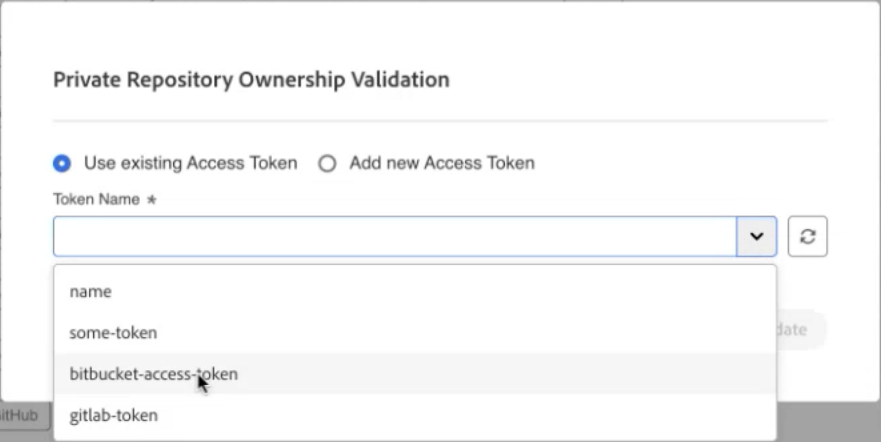
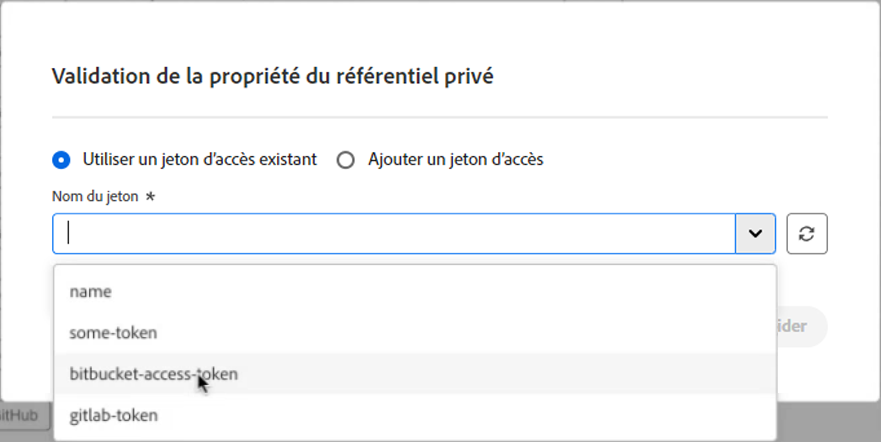
Updated by task 'AUTO_HANDOFF_1728480949381'  Changes for core/source commit https://git.corp.adobe.com/AdobeDocs/experience-manager-cloud-manager.en/commit/593ab468fb09900d061a4d820b8a1a33e2047237

Changed region(s): [[0.0613, 0.3235, 0.9501, 0.5882], [0.0613, 0.1471, 0.5823, 0.2059], [0.8581, 0.7059, 0.9194, 0.7647]]

diff --git a/help/managing-code/external-repositories.md b/help/managing-code/external-repositories.md
@@ -1,17 +1,17 @@
 ---
-title: Ajouter des référentiels externes dans Cloud Manager (Adopteur anticipé)
-description: Découvrez comment ajouter un référentiel externe dans Cloud Manager. Cloud Manager prend en charge l’intégration avec les référentiels GitHub, GitLab et Bitbucket.
+title: Ajout de référentiels externes dans Cloud Manager (adoption précoce)
+description: Découvrez comment ajouter un référentiel externe dans Cloud Manager. Cloud Manager prend en charge l’intégration avec les référentiels GitHub, GitLab et Bitbucket.
 source-git-commit: 054c214be3c8c6e8a8bd4691b70ae2098263ef5b
-workflow-type: tm+mt
+workflow-type: ht
 source-wordcount: '740'
-ht-degree: 6%
+ht-degree: 100%
 
 ---
 
 
-# Ajout de référentiels externes dans Cloud Manager {#external-repositories}
+# Ajout de référentiels externes dans Cloud Manager {#external-repositories}
 
-Découvrez comment ajouter un référentiel externe dans Cloud Manager. Cloud Manager prend en charge l’intégration avec les référentiels GitHub, GitLab et Bitbucket.
+Découvrez comment ajouter un référentiel externe dans Cloud Manager. Cloud Manager prend en charge l’intégration avec les référentiels GitHub, GitLab et Bitbucket.
 
 >[!NOTE]
 >
@@ -19,7 +19,7 @@ Découvrez comment ajouter un référentiel externe dans Cloud Manager. Cloud Ma
 
 ## Configuration d’un référentiel externe
 
-La configuration d’un référentiel externe dans Cloud Manager se compose de trois étapes :
+La configuration d’un référentiel externe dans Cloud Manager se compose de trois étapes :
 
 1. [Ajoutez un référentiel externe](#add-external-repo) à un programme sélectionné.
 1. Fournissez un jeton d’accès au référentiel externe.
@@ -33,60 +33,60 @@ La configuration d’un référentiel externe dans Cloud Manager se compose de t
 1. Dans la console **[Mes programmes](/help/getting-started/navigation.md#my-programs-console), sélectionnez le programme auquel vous souhaitez lier un référentiel externe.
 
 
-1. Dans le menu latéral, sous **Services**, sélectionnez ![Icône Dossier](https://spectrum.adobe.com/static/icons/workflow_18/Smock_Folder_18_N.svg) **Référentiels**.
+1. Dans le menu latéral, sous **Services**, sélectionnez ![icône Dossier](https://spectrum.adobe.com/static/icons/workflow_18/Smock_Folder_18_N.svg) **Référentiels**.
 
    ![Page Référentiels](/help/managing-code/assets/repositories-tab.png)
 
-1. Près du coin supérieur droit de la page **Référentiels**, cliquez sur **Ajouter un référentiel**.
+1. Dans le coin supérieur droit de la page **Référentiels**, cliquez sur **Ajouter un référentiel**.
 
 1. Dans la boîte de dialogue **Ajouter un référentiel**, sélectionnez **Référentiel privé** pour lier un référentiel Git externe à votre programme.
 
-   ![Ajout de votre propre référentiel.](/help/managing-code/assets/repositories-private-repo-type.png)
+   ![Ajout de votre propre référentiel](/help/managing-code/assets/repositories-private-repo-type.png)
 
-1. Dans chaque champ respectif, fournissez les détails suivants sur votre référentiel :
+1. Dans chaque champ respectif, fournissez les détails suivants sur votre référentiel :
 
    | Champ | Description |
    | --- | --- |
-   | **Nom du référentiel** | Requis. Nom expressif de votre nouveau référentiel. |
-   | **URL du référentiel** | Requis. URL du référentiel.<br><br> Si vous utilisez un référentiel hébergé par GitHub, le chemin doit se terminer par `.git`.<br>Par exemple, *`https://github.com/org-name/repo-name.git`* (le chemin de l’URL est fourni à titre d’illustration uniquement).<br><br>Si vous utilisez un référentiel externe, il doit utiliser le format de chemin d’URL suivant :<br>`https://git-vendor-name.com/org-name/repo-name.git`<br> ou<br>`https://self-hosted-domain/org-name/repo-name.git`<br>et correspondre à votre fournisseur Git. |
-   | **Sélectionner le type de référentiel** | Requis. Sélectionnez le type de référentiel que vous utilisez : **GitHub**, **GitLab** ou **BitBucket**. Si le chemin d’URL du référentiel ci-dessus inclut le nom du fournisseur Git, tel que GitLab ou Bitbucket, le type de référentiel est déjà présélectionné. |
+   | **Nom du référentiel** | Obligatoire. Nom expressif pour votre nouveau référentiel. |
+   | **URL du référentiel** | Obligatoire. URL du référentiel.<br><br> Si vous utilisez un référentiel hébergé par GitHub, le chemin d’accès doit se terminer par `.git`.<br>Par exemple, *`https://github.com/org-name/repo-name.git`* (le chemin d’accès de l’URL est fourni à titre d’illustration uniquement).<br><br>Si vous utilisez un référentiel externe, il doit utiliser le format de chemin d’accès d’URL suivant :<br>`https://git-vendor-name.com/org-name/repo-name.git`<br> ou <br>`https://self-hosted-domain/org-name/repo-name.git`<br> et correspondre à votre fournisseur Git. |
+   | **Sélection du type de référentiel** | Obligatoire. Sélectionnez le type de référentiel que vous utilisez : **GitHub**, **GitLab** ou **BitBucket**. Si le chemin d’accès de l’URL du référentiel ci-dessus inclut le nom du fournisseur Git, tel que GitLab ou Bitbucket, le type de référentiel est déjà présélectionné. |
    | **Description** | Facultatif. Description détaillée du référentiel. |
 
 1. Sélectionnez **Enregistrer** pour ajouter le référentiel.
 
 1. Dans la boîte de dialogue **Validation de la propriété du référentiel privé**, fournissez un jeton d’accès pour valider la propriété du référentiel externe afin que vous puissiez y accéder.
 
-   ![Sélectionner un jeton d’accès existant pour un référentiel](/help/managing-code/assets/repositories-exisiting-access-token.png)
+   ![Sélection d’un jeton d’accès existant pour un référentiel](/help/managing-code/assets/repositories-exisiting-access-token.png)
    *Sélection d’un jeton d’accès existant pour un référentiel BitBucket.*
 
    | Type de jeton | Description |
    | --- | --- |
-   | **Utiliser un jeton d’accès existant** | Si vous avez déjà fourni un jeton d’accès au référentiel pour votre organisation et que vous avez accès à plusieurs référentiels, vous pouvez sélectionner un jeton existant. Utilisez la liste déroulante **Nom du jeton** pour choisir le jeton à appliquer au référentiel. Sinon, ajoutez un nouveau jeton d’accès. |
-   | **Ajouter un nouveau jeton d’accès** | **Type de référentiel : GitHub**<br> ・ Dans le champ de texte **Nom du jeton**, saisissez un nom pour le jeton d’accès que vous créez.<br> ・ Créez un jeton d’accès personnel en suivant les instructions de la [documentation GitHub](https://docs.github.com/en/enterprise-server@3.14/authentication/keeping-your-account-and-data-secure/managing-your-personal-access-tokens).<br> ・ Autorisations requises : <br>  ・ `Read access to metadata`.<br>  ・ `Read and write access to code and pull requests`.<br> ・ Dans le champ **Access Token** , collez le jeton que vous venez de créer. |
-   |  | **Type de référentiel : GitLab**<br> ・ Dans le champ de texte **Nom du jeton**, saisissez un nom pour le jeton d’accès que vous créez.<br> ・ Créez un jeton d’accès personnel en suivant les instructions de la [documentation GitLab](https://docs.gitlab.com/ee/user/profile/personal_access_tokens.html).<br> ・ Autorisations requises : <br>  ・ `api`<br>  ・ `read_api`<br>  ・ `read_repository`<br>  ・ `write_repository`<br> ・ Dans le champ **Access Token**, collez le jeton que vous venez de créer. |
-   |  | **Type de référentiel : ・ Bitbucket**<br> Dans le champ de texte **Nom du jeton**, saisissez un nom pour le jeton d’accès que vous créez.<br> ・ Créez un jeton d’accès au référentiel à l’aide de la [documentation Bitbucket](https://support.atlassian.com/bitbucket-cloud/docs/create-a-repository-access-token/).<br> ・ Autorisations requises : <br>  ・ `Read and write access to code and pull requests`. |
+   | **Utilisation d’un jeton d’accès existant** | Si vous avez déjà fourni un jeton d’accès au référentiel pour votre organisation et que vous avez accès à plusieurs référentiels, vous pouvez sélectionner un jeton existant. Utilisez la liste déroulante **Nom du jeton** pour choisir le jeton que vous souhaitez appliquer au référentiel. Sinon, ajoutez un nouveau jeton d’accès. |
+   | **Ajout d’un nouveau jeton d’accès** | **Type de référentiel : GitHub**<br>• Dans le champ de texte **Nom du jeton**, saisissez un nom pour le jeton d’accès que vous créez.<br>• Créez un jeton d’accès personnel en suivant les instructions de la [documentation GitHub](https://docs.github.com/fr/enterprise-server@3.14/authentication/keeping-your-account-and-data-secure/managing-your-personal-access-tokens).<br>• Autorisations requises : <br> • `Read access to metadata`.<br> • `Read and write access to code and pull requests`.<br>• Dans le champ **Jeton d’accès**, collez le jeton que vous venez de créer. |
+   |  | **Type de référentiel : GitLab**<br>• Dans le champ de texte **Nom du jeton**, saisissez un nom pour le jeton d’accès que vous créez.<br>• Créez un jeton d’accès personnel en suivant les instructions de la [documentation GitLab](https://docs.gitlab.com/ee/user/profile/personal_access_tokens.html).<br>• Autorisations requises :<br> • `api`<br> • `read_api`<br> • `read_repository`<br> • `write_repository`<br>• Dans le champ **Jeton d’accès**, collez le jeton que vous venez de créer. |
+   |  | **Type de référentiel : Bitbucket**<br>• Dans le champ de texte **Nom du jeton**, saisissez un nom pour le jeton d’accès que vous créez.<br>• Créez un jeton d’accès au référentiel à l’aide de la [documentation Bitbucket](https://support.atlassian.com/bitbucket-cloud/docs/create-a-repository-access-token/).<br>• Autorisations requises :<br> • `Read and write access to code and pull requests`. |
 
    >[!NOTE]
    >
-   >La fonctionnalité **Ajouter un nouveau jeton d’accès** est actuellement en phase Adopteurs anticipés. D&#39;autres fonctionnalités sont en cours de planification. Par conséquent, les autorisations requises pour les jetons d’accès peuvent changer. En outre, l’interface utilisateur de gestion des jetons peut être mise à jour, notamment des fonctionnalités telles que les dates d’expiration des jetons. De plus, des vérifications automatisées pour s’assurer que les jetons liés à des référentiels restent valides.
+   >La fonctionnalité **Ajouter un nouveau jeton d’accès** est actuellement en phase d’adoption précoce. Des fonctionnalités supplémentaires sont en cours de planification. Par conséquent, les autorisations requises pour les jetons d’accès peuvent changer. De plus, l’interface d’utilisation pour la gestion des jetons peut être mise à jour avec des fonctionnalités telles que la gestion des dates d’expiration des jetons. Ainsi que des vérifications automatisées pour garantir que les jetons associés aux référentiels restent valides.
 
 1. Cliquez sur **Valider**.
 
-Après la validation, le référentiel externe est prêt à utiliser et à se lier à un pipeline.
+Après validation, le référentiel externe est prêt à l’emploi et peut être connecté à un pipeline.
 
-## Lier un référentiel externe validé à un pipeline {#validate-ext-repo}
+## Liaison d’un référentiel externe validé à un pipeline {#validate-ext-repo}
 
-1. Ajouter ou modifier un pipeline :
+1. Ajoutez ou modifiez un pipeline :
    * [Ajout d’un pipeline de production](/help/using/production-pipelines.md)
    * [Ajout de pipelines hors production](/help/using/non-production-pipelines.md)
    * [Modification d’un pipeline](/help/using/managing-pipelines.md#editing-pipelines)
 
    ![Référentiel de code source du pipeline et branche Git](/help/managing-code/assets/pipeline-repo-gitbranch.png)
-   *Boîte de dialogue Ajouter un pipeline hors production avec référentiel sélectionné et branche Git,*
+   *Boîte de dialogue Ajout d’un pipeline hors production avec référentiel sélectionné et branche Git*
 
-1. Lors de l’ajout ou de la modification d’un pipeline, pour spécifier l’emplacement **Source Code** pour votre nouveau pipeline ou existant, sélectionnez le référentiel externe que vous souhaitez utiliser dans la liste déroulante **Repository**.
+1. Pour spécifier l’emplacement du **code source** lors de l’ajout ou de la modification d’un pipeline, sélectionnez le référentiel externe de votre choix dans la liste déroulante **Référentiel**.
 
-1. Dans la liste déroulante **Branche Git** , sélectionnez la branche comme source du pipeline.
+1. Dans la liste déroulante **Branche Git**, sélectionnez la branche comme source du pipeline.
 
 1. Cliquez sur **Enregistrer**.
 
@@ -99,4 +99,4 @@ Après la validation, le référentiel externe est prêt à utiliser et à se li
 ## Limites
 
 * Les référentiels externes ne peuvent pas être liés aux pipelines de configuration.
-* Les pipelines qui utilisent des référentiels externes (à l’exception des référentiels hébergés par GitHub) et l’option **Déclencheur de déploiement** [!UICONTROL **Lors des modifications Git**], les déclencheurs ne sont pas démarrés automatiquement. Ils doivent être démarrés manuellement.
+* Lorsque des pipelines utilisent des référentiels externes (hors GitHub) et que l’option **Déclencheur de déploiement** est activée avec [!UICONTROL **Lors des modifications Git**], les déclencheurs ne s’exécutent pas automatiquement. Ils doivent être démarrés manuellement.

diff --git a/help/release-notes/current.md b/help/release-notes/current.md
@@ -3,9 +3,9 @@ title: Notes de mise à jour de la version 2024.10.0 de Cloud Manager
 description: Voici les notes de mise à jour de la version 2024.10.0 de Cloud Manager.
 feature: Release Information
 source-git-commit: 74e8f7c0f3896e0e33a02b62c003db322c0d50d8
-workflow-type: tm+mt
+workflow-type: ht
 source-wordcount: '369'
-ht-degree: 27%
+ht-degree: 100%
 
 ---
 
@@ -23,44 +23,44 @@ Cette page présente les notes de mise à jour de la version 2024.10.0 de [!UIC
 
 <!-- SAVE FOR FUTURE POSSIBLE USE No notable bugs or features for the September release of Cloud Manager. -->
 
-La date de publication de [!UICONTROL Cloud Manager] 2024.10.0 est le 3 octobre 2024.
+La date de publication de la mise à jour 2024.10.0 de [!UICONTROL Cloud Manager] est le 3 octobre 2024.
 
-La prochaine version est prévue pour le vendredi 14 novembre 2024.
+La prochaine version est prévue pour le 14 novembre 2024.
 
 
 
 ## Nouveautés {#what-is-new}
 
-* <!-- BOTH CS & AMS --> La version AEM Archetype utilisée dans Cloud Manager est désormais mise à jour vers la version 26. Voir [https://github.com/adobe/aem-project-archetype/releases](https://github.com/adobe/aem-project-archetype/releases)
+* <!-- BOTH CS & AMS --> La version d’archétype AEM utilisée dans Cloud Manager est désormais mise à jour vers la version 26. Voir [https://github.com/adobe/aem-project-archetype/releases](https://github.com/adobe/aem-project-archetype/releases)
 <!-- (CMGR-59817) -->
 
 
 
 ## Programme d’adoption précoce {#early-adoption}
 
-Faites partie du programme Cloud Manager d’adoption anticipée et avez la possibilité de tester les fonctionnalités à venir.
+Prenez part à notre programme d’adoption précoce de Cloud Manager afin de pouvoir tester certaines fonctionnalités à venir.
 
 ### Apportez votre propre Git - avec prise en charge de GitLab et Bitbucket {#gitlab-bitbucket}
 
 <!-- BOTH CS & AMS -->
 
-La fonctionnalité **Bring Your Own Git** a été étendue pour inclure la prise en charge de référentiels externes tels que GitLab et Bitbucket. Cette nouvelle prise en charge s’ajoute à la prise en charge déjà existante des référentiels GitHub privés et d’entreprise. Lorsque vous ajoutez ces nouveaux repos, vous pouvez également les lier directement à vos pipelines. Vous pouvez héberger ces référentiels sur des plateformes cloud publiques ou dans votre cloud ou infrastructure privée. Cette intégration élimine également la nécessité d’une synchronisation constante du code avec le référentiel d’Adobe et permet de valider les requêtes d’extraction avant de les fusionner dans une branche principale.
+La fonctionnalité **Apportez votre propre Git** a été étendue pour inclure la prise en charge de référentiels externes tels que GitLab et Bitbucket. Cette nouvelle prise en charge s’ajoute à la prise en charge existante des référentiels GitHub privés et d’entreprise. Lorsque vous ajoutez ces nouveaux référentiels, vous pouvez également les lier directement à vos pipelines. Vous pouvez héberger ces référentiels sur des plateformes cloud publiques ou dans votre infrastructure ou cloud privés. Cette intégration élimine également la nécessité d’une synchronisation constante du code avec le référentiel d’Adobe et permet de valider les requêtes d’extraction avant de les fusionner dans une branche principale.
 
-Voir [Ajout de référentiels externes dans Cloud Manager](/help/managing-code/external-repositories.md).
+Voir [Ajouter des référentiels externes dans Cloud Manager](/help/managing-code/external-repositories.md).
 
 ![Boîte de dialogue Ajouter un référentiel](/help/release-notes/assets/repositories-add-release-notes.png)
 
 >[!NOTE]
 >
->Actuellement, les contrôles de qualité du code de demande d’extraction prêts à l’emploi sont exclusifs aux référentiels hébergés par GitHub, mais une mise à jour pour étendre cette fonctionnalité à d’autres fournisseurs Git est en cours d’élaboration.
+>Actuellement, les contrôles de qualité du code des requêtes d’extraction prêts à l’emploi sont exclusifs aux référentiels hébergés par GitHub, mais une mise à jour permettant d’étendre cette fonctionnalité à d’autres fournisseurs Git est en cours.
 
-Si vous souhaitez tester cette nouvelle fonctionnalité et partager vos commentaires, envoyez un email à [Grp-CloudManager_BYOG@adobe.com](mailto:Grp-CloudManager_BYOG@adobe.com) à partir de votre adresse électronique associée à votre Adobe ID. Veillez à inclure la plateforme Git à utiliser et si vous utilisez une structure de référentiel privée/publique ou d’entreprise.
+Si vous souhaitez tester cette nouvelle fonctionnalité et faire part de vos commentaires, envoyez un e-mail à [Grp-CloudManager_BYOG@adobe.com](mailto:Grp-CloudManager_BYOG@adobe.com) à partir de l’adresse e-mail associée à votre Adobe ID. Veillez à inclure la plateforme Git à utiliser et indiquez si vous utilisez une structure de référentiel privée/publique ou d’entreprise.
 
 ### Pipelines dédiés uniquement à l’évaluation ou à la production {#staging-production-only-pipelines}
 
-Adobe annonce l’introduction de la prise en charge des [pipelines d’évaluation seule et de production seule](/help/using/stage-prod-only.md). Cette nouvelle fonctionnalité vous permet de diviser les pipelines de déploiement de production en pile pleine en déploiements plus petits et plus spécialisés.
+Adobe se réjouit d’annoncer l’introduction de la prise en charge des [pipelines dédiés uniquement à l’évaluation ou à la production](/help/using/stage-prod-only.md). Cette nouvelle fonctionnalité vous permet de diviser les pipelines de déploiement de production en pile pleine en déploiements plus petits et plus spécialisés.
 
-Si vous souhaitez tester cette fonctionnalité et fournir des commentaires, envoyez un e-mail [Grp-cloudmanager_splitpipelines@adobe.com](mailto:Grp-cloudmanager_splitpipelines@adobe.com) à partir de votre adresse électronique associée à votre Adobe ID.
+Si vous souhaitez tester cette nouvelle fonctionnalité et faire part de vos commentaires, envoyez un e-mail à [Grp-cloudmanager_splitpipelines@adobe.com](mailto:Grp-cloudmanager_splitpipelines@adobe.com) à partir de l’adresse e-mail associée à votre Adobe ID.
 
 <!-- ## Bug fixes
 

diff --git a/help/main-toc/TOC.md b/help/main-toc/TOC.md
@@ -8,9 +8,9 @@ feature-set: Experience Manager Cloud Manager, Experience Manager
 feature: Cloud Manager
 role: Admin
 source-git-commit: 1209faf71edbd74cd87acfe24ec438b98ddd4a3a
-workflow-type: tm+mt
+workflow-type: ht
 source-wordcount: '342'
-ht-degree: 73%
+ht-degree: 100%
 
 ---
 
@@ -29,10 +29,10 @@ ht-degree: 73%
    + [Droits d’accès](/help/requirements/access-rights.md)
    + [Référentiel de code source](/help/requirements/source-code-repository.md)
    + [Autorisations basées sur les rôles](/help/requirements/role-based-permissions.md)
-   + [Configuration des utilisateurs et des rôles](/help/requirements/users-and-roles.md)
+   + [Configuration des utilisateurs et utilisatrices et des rôles](/help/requirements/users-and-roles.md)
    + [Autorisations personnalisées](/help/using/custom-permissions.md)
-   + [Configuration d’environnement](/help/requirements/environment-provisioning.md)
-+ Prise en main {#getting-started}
+   + [Approvisionnement d’environnement](/help/requirements/environment-provisioning.md)
++ Commencer {#getting-started}
    + [Première connexion](/help/getting-started/first-time-login.md)
    + [Navigation](/help/getting-started/navigation.md)
    + [Configuration du programme](/help/getting-started/program-setup.md)
@@ -46,29 +46,29 @@ ht-degree: 73%
    + Pipelines CI/CD {#pipelines}
       + [Configurer un pipeline de production](/help/using/production-pipelines.md)
       + [Configurer un pipeline hors production](/help/using/non-production-pipelines.md)
-      + [Pipelines d’évaluation et de production uniquement (Adopteur anticipé)](/help/using/stage-prod-only.md)
-      + [Gérer les pipelines](/help/using/managing-pipelines.md)
+      + [Pipelines dédiés à l’étape de division et de production uniquement (adoption précoce)](/help/using/stage-prod-only.md)
+      + [Gestion des pipelines](/help/using/managing-pipelines.md)
    + [Déploiement du code](/help/using/code-deployment.md)
    + [Test de qualité du code](/help/using/code-quality-testing.md)
-   + [Gérer les environnements](/help/using/managing-environments.md)
-   + [Surveiller les environnements](/help/using/monitoring-environments.md)
+   + [Gestion des environnements](/help/using/managing-environments.md)
+   + [Surveillance des environnements](/help/using/monitoring-environments.md)
    + [API Cloud Manager](https://developer.adobe.com/experience-cloud/cloud-manager/reference/api/)
    + [CLI Cloud Manager](https://github.com/adobe/aio-cli-plugin-cloudmanager/blob/main/README.md)
    + [Notifications](/help/using/notifications.md)
    + [Règles de qualité du code personnalisé](/help/using/custom-code-quality-rules.md)
    + [Copie de contenu](/help/using/content-copy.md)
 + Gestion du code {#managing-code}
-   + [Gérer les référentiels dans Cloud Manager](/help/managing-code/managing-repositories.md)
+   + [Gestion des référentiels dans Cloud Manager](/help/managing-code/managing-repositories.md)
    + [Informations d’accès au référentiel](/help/managing-code/accessing-repositories.md)
-   + [Ajout d’un référentiel d’Adobe](/help/managing-code/adobe-repositories.md)
+   + [Ajout d’un référentiel Adobe](/help/managing-code/adobe-repositories.md)
    + [Ajout d’un référentiel privé](/help/managing-code/private-repositories.md)
-   + [Ajouter un référentiel externe (Adopteur anticipé)](/help/managing-code/external-repositories.md)
+   + [Ajout d’un référentiel externe (adoption précoce)](/help/managing-code/external-repositories.md)
    + [Prise en charge des sous-modules Git](/help/managing-code/git-submodules.md)
    + [Configuration de la vérification GitHub](/help/managing-code/github-check-config.md)
    + [Annotations de la vérification GitHub](/help/managing-code/github-annotations.md)
    + [Gestion des versions du projet Maven](/help/managing-code/maven-project-version.md)
-   + [Intégrer à Git](/help/managing-code/git-integration.md)
-   + [Utiliser plusieurs référentiels Git](/help/managing-code/multiple-git-repos.md)
+   + [Intégration à Git](/help/managing-code/git-integration.md)
+   + [Utilisation de plusieurs référentiels Git](/help/managing-code/multiple-git-repos.md)
 + Assistant de mise à jour du produit {#product-update-wizard}
    + [Vue d’ensemble](/help/product-update-wizard/overview.md)
    + [Évaluation](/help/product-update-wizard/evaluation.md)

diff --git a/help/using/managing-pipelines.md b/help/using/managing-pipelines.md
@@ -1,18 +1,18 @@
 ---
-title: Gérer les pipelines
-description: Découvrez comment gérer vos pipelines existants, notamment les exécuter, les modifier et les supprimer.
+title: Gestion des pipelines
+description: Découvrez comment gérer vos pipelines existants, notamment en les exécutant, en les modifiant et en les supprimant.
 exl-id: e36420d2-57c5-4375-99fb-dd47c1c8bffd
 source-git-commit: 9d910e1b1a4aad000a8389ddc22ce380bbccd4ef
-workflow-type: tm+mt
+workflow-type: ht
 source-wordcount: '840'
-ht-degree: 89%
+ht-degree: 100%
 
 ---
 
 
-# Gérer les pipelines {#managing-pipelines}
+# Gestion des pipelines {#managing-pipelines}
 
-Découvrez comment gérer vos pipelines existants, notamment les exécuter, les modifier et les supprimer.
+Découvrez comment gérer vos pipelines existants, notamment en les exécutant, en les modifiant et en les supprimant.
 
 ## Carte de pipeline {#pipeline-card}
 
@@ -36,11 +36,11 @@ Au bas de la liste des pipelines, vous disposez des options générales suivante
 
 ## Page Pipelines {#pipelines}
 
-La page **Pipelines** affiche la liste complète de tous les pipelines pour le programme sélectionné. Cette liste se révèle utile, car elle présente des informations plus complètes que celles disponibles dans la [Carte Pipelines](#pipeline-card).
+La page **Pipelines** affiche la liste complète de tous les pipelines du programme sélectionné. Cette liste se révèle utile, car elle présente des informations plus complètes que celles disponibles dans la [Carte Pipelines](#pipeline-card).
 
 1. Connectez-vous à Cloud Manager à l’adresse [my.cloudmanager.adobe.com](https://my.cloudmanager.adobe.com/) et sélectionnez l’organisation et le programme appropriés.
 
-1. Sur la page **Aperçu du programme**, cliquez sur l’onglet **Pipelines** pour passer à la page **Pipelines**.
+1. Dans la page **Vue d’ensemble du programme**, cliquez sur l’onglet **Pipelines** pour basculer vers la page **Pipelines**.
 
 1. Vous y trouverez une liste de tous les pipelines du programme, ainsi que le début et l’arrêt de l’exécution du pipeline, comme dans la **Carte des pipelines**.
 
@@ -50,13 +50,13 @@ Le fait de cliquer sur l’icône `i` affiche des détails sur la dernière exé
 
 Cliquez sur **Afficher les détails** pour accéder aux [détails de l’exécution du pipeline](#view-details).
 
-## Page d’activité {#activity}
+## Page Activité {#activity}
 
-La page **Activités** affiche une liste complète de toutes les exécutions de pipelines pour le programme sélectionné.
+La page **Activités** affiche la liste complète de toutes les exécutions de pipelines du programme sélectionné.
 
 1. Connectez-vous à Cloud Manager à l’adresse [my.cloudmanager.adobe.com](https://my.cloudmanager.adobe.com/) et sélectionnez l’organisation et le programme appropriés.
 
-1. Sur la page **Aperçu du programme**, cliquez sur l’onglet **Activité** pour passer à la page **Activité**.
+1. Dans la page **Vue d’ensemble du programme**, cliquez sur l’onglet **Activité** pour basculer vers la page **Activité**.
 
 1. Vous y trouverez une liste de toutes les exécutions de pipeline du programme, y compris les exécutions actuelles et historiques.
 

diff --git a/help/managing-code/private-repositories.md b/help/managing-code/private-repositories.md
@@ -4,9 +4,9 @@ description: Découvrez comment configurer Cloud Manager pour utiliser vos prop
 feature: Release Information
 exl-id: e0d103c9-c147-4040-bf53-835e93d78a0b
 source-git-commit: 5090d7ee9a6742d71122acda9901d074bc254305
-workflow-type: tm+mt
+workflow-type: ht
 source-wordcount: '818'
-ht-degree: 96%
+ht-degree: 100%
 
 ---
 
@@ -32,7 +32,7 @@ La configuration se compose de deux étapes principales :
 
 
 
-### Ajout d’un référentiel {#add-repo}
+### Ajouter un référentiel {#add-repo}
 
 1. Dans Cloud Manager, dans la page **Vue d’ensemble du programme**, cliquez sur l’onglet **Référentiels** pour basculer vers la page **Référentiels** et cliquez sur **Ajouter un référentiel**.
 
@@ -98,7 +98,7 @@ Pour revenir au référentiel ultérieurement et terminer la validation, accéde
 
 Une fois le référentiel GitHub validé dans Cloud Manager, l’intégration est terminée et vous pouvez utiliser le référentiel avec Cloud Manager.
 
-**Pour utiliser des référentiels privés avec Cloud Manager :**
+**Pour utiliser des référentiels privés avec Cloud Manager :**
 
 1. Lorsque vous créez une demande d’extraction, une vérification GitHub démarre automatiquement.
 
@@ -124,7 +124,7 @@ Lorsque la demande d’extraction est fermée ou fusionnée, le pipeline de qual
 
 ## Associer des référentiels privés à des pipelines {#pipelines}
 
-Les référentiels privés validés peuvent être associés aux [pipelines full-stack et front-end](/help/overview/ci-cd-pipelines.md).
+Les référentiels privés validés peuvent être associés à des [pipelines full-stack et front-end.](/help/overview/ci-cd-pipelines.md).
 
 
 

diff --git a/help/using/non-production-pipelines.md b/help/using/non-production-pipelines.md
@@ -3,13 +3,13 @@ title: Ajout d’un pipeline hors production
 description: Découvrez comment utiliser Cloud Manager pour créer et configurer des pipelines hors production afin de déployer votre code.
 exl-id: ccf4b4a2-6e29-4ede-821c-36318b568e5c
 source-git-commit: 1209faf71edbd74cd87acfe24ec438b98ddd4a3a
-workflow-type: tm+mt
+workflow-type: ht
 source-wordcount: '688'
-ht-degree: 98%
+ht-degree: 100%
 
 ---
 
-# Ajouter un pipeline hors production {#configuring-non-production-pipelines}
+# Ajout d’un pipeline hors production {#configuring-non-production-pipelines}
 
 Découvrez comment utiliser Cloud Manager pour créer et configurer des pipelines hors production afin de déployer votre code. Si vous souhaitez d’abord obtenir une vue d’ensemble plus conceptuelle du fonctionnement des pipelines dans Cloud Manager, reportez-vous au document [Pipelines CI/CD](/help/overview/ci-cd-pipelines.md).
 

diff --git a/help/managing-code/accessing-repositories.md b/help/managing-code/accessing-repositories.md
@@ -3,8 +3,8 @@ title: Informations d’accès au référentiel
 description: Découvrez comment accéder à votre référentiel Git géré par Adobe et comment le gérer à l’aide de la gestion de compte Git en libre-service, à partir de Cloud Manager.
 exl-id: 1cc88c82-67c7-4553-a1b8-d2ab22be466c
 source-git-commit: 04fbc4a3fdba8b108055d66a4fdb1a31994cb18e
-workflow-type: tm+mt
-source-wordcount: '381'
+workflow-type: ht
+source-wordcount: '0'
 ht-degree: 100%
 
 ---

diff --git a/help/using/production-pipelines.md b/help/using/production-pipelines.md
@@ -3,9 +3,9 @@ title: Ajout d’un pipeline de production
 description: Découvrez comment créer et configurer des pipelines de production à l’aide de Cloud Manager afin de déployer votre code.
 exl-id: d489fa3c-df1e-480b-82d0-ac8cce78a710
 source-git-commit: 1209faf71edbd74cd87acfe24ec438b98ddd4a3a
-workflow-type: tm+mt
+workflow-type: ht
 source-wordcount: '1249'
-ht-degree: 99%
+ht-degree: 100%
 
 ---
 

diff --git a/help/release-notes/2024/2024-9-0.md b/help/release-notes/2024/2024-9-0.md
@@ -3,8 +3,8 @@ title: Notes de mise à jour de la version 2024.9.0 de Cloud Manager
 description: Voici les notes de mise à jour de la version 2024.9.0 de Cloud Manager.
 feature: Release Information
 source-git-commit: 9d910e1b1a4aad000a8389ddc22ce380bbccd4ef
-workflow-type: tm+mt
-source-wordcount: '184'
+workflow-type: ht
+source-wordcount: '0'
 ht-degree: 100%
 
 ---
